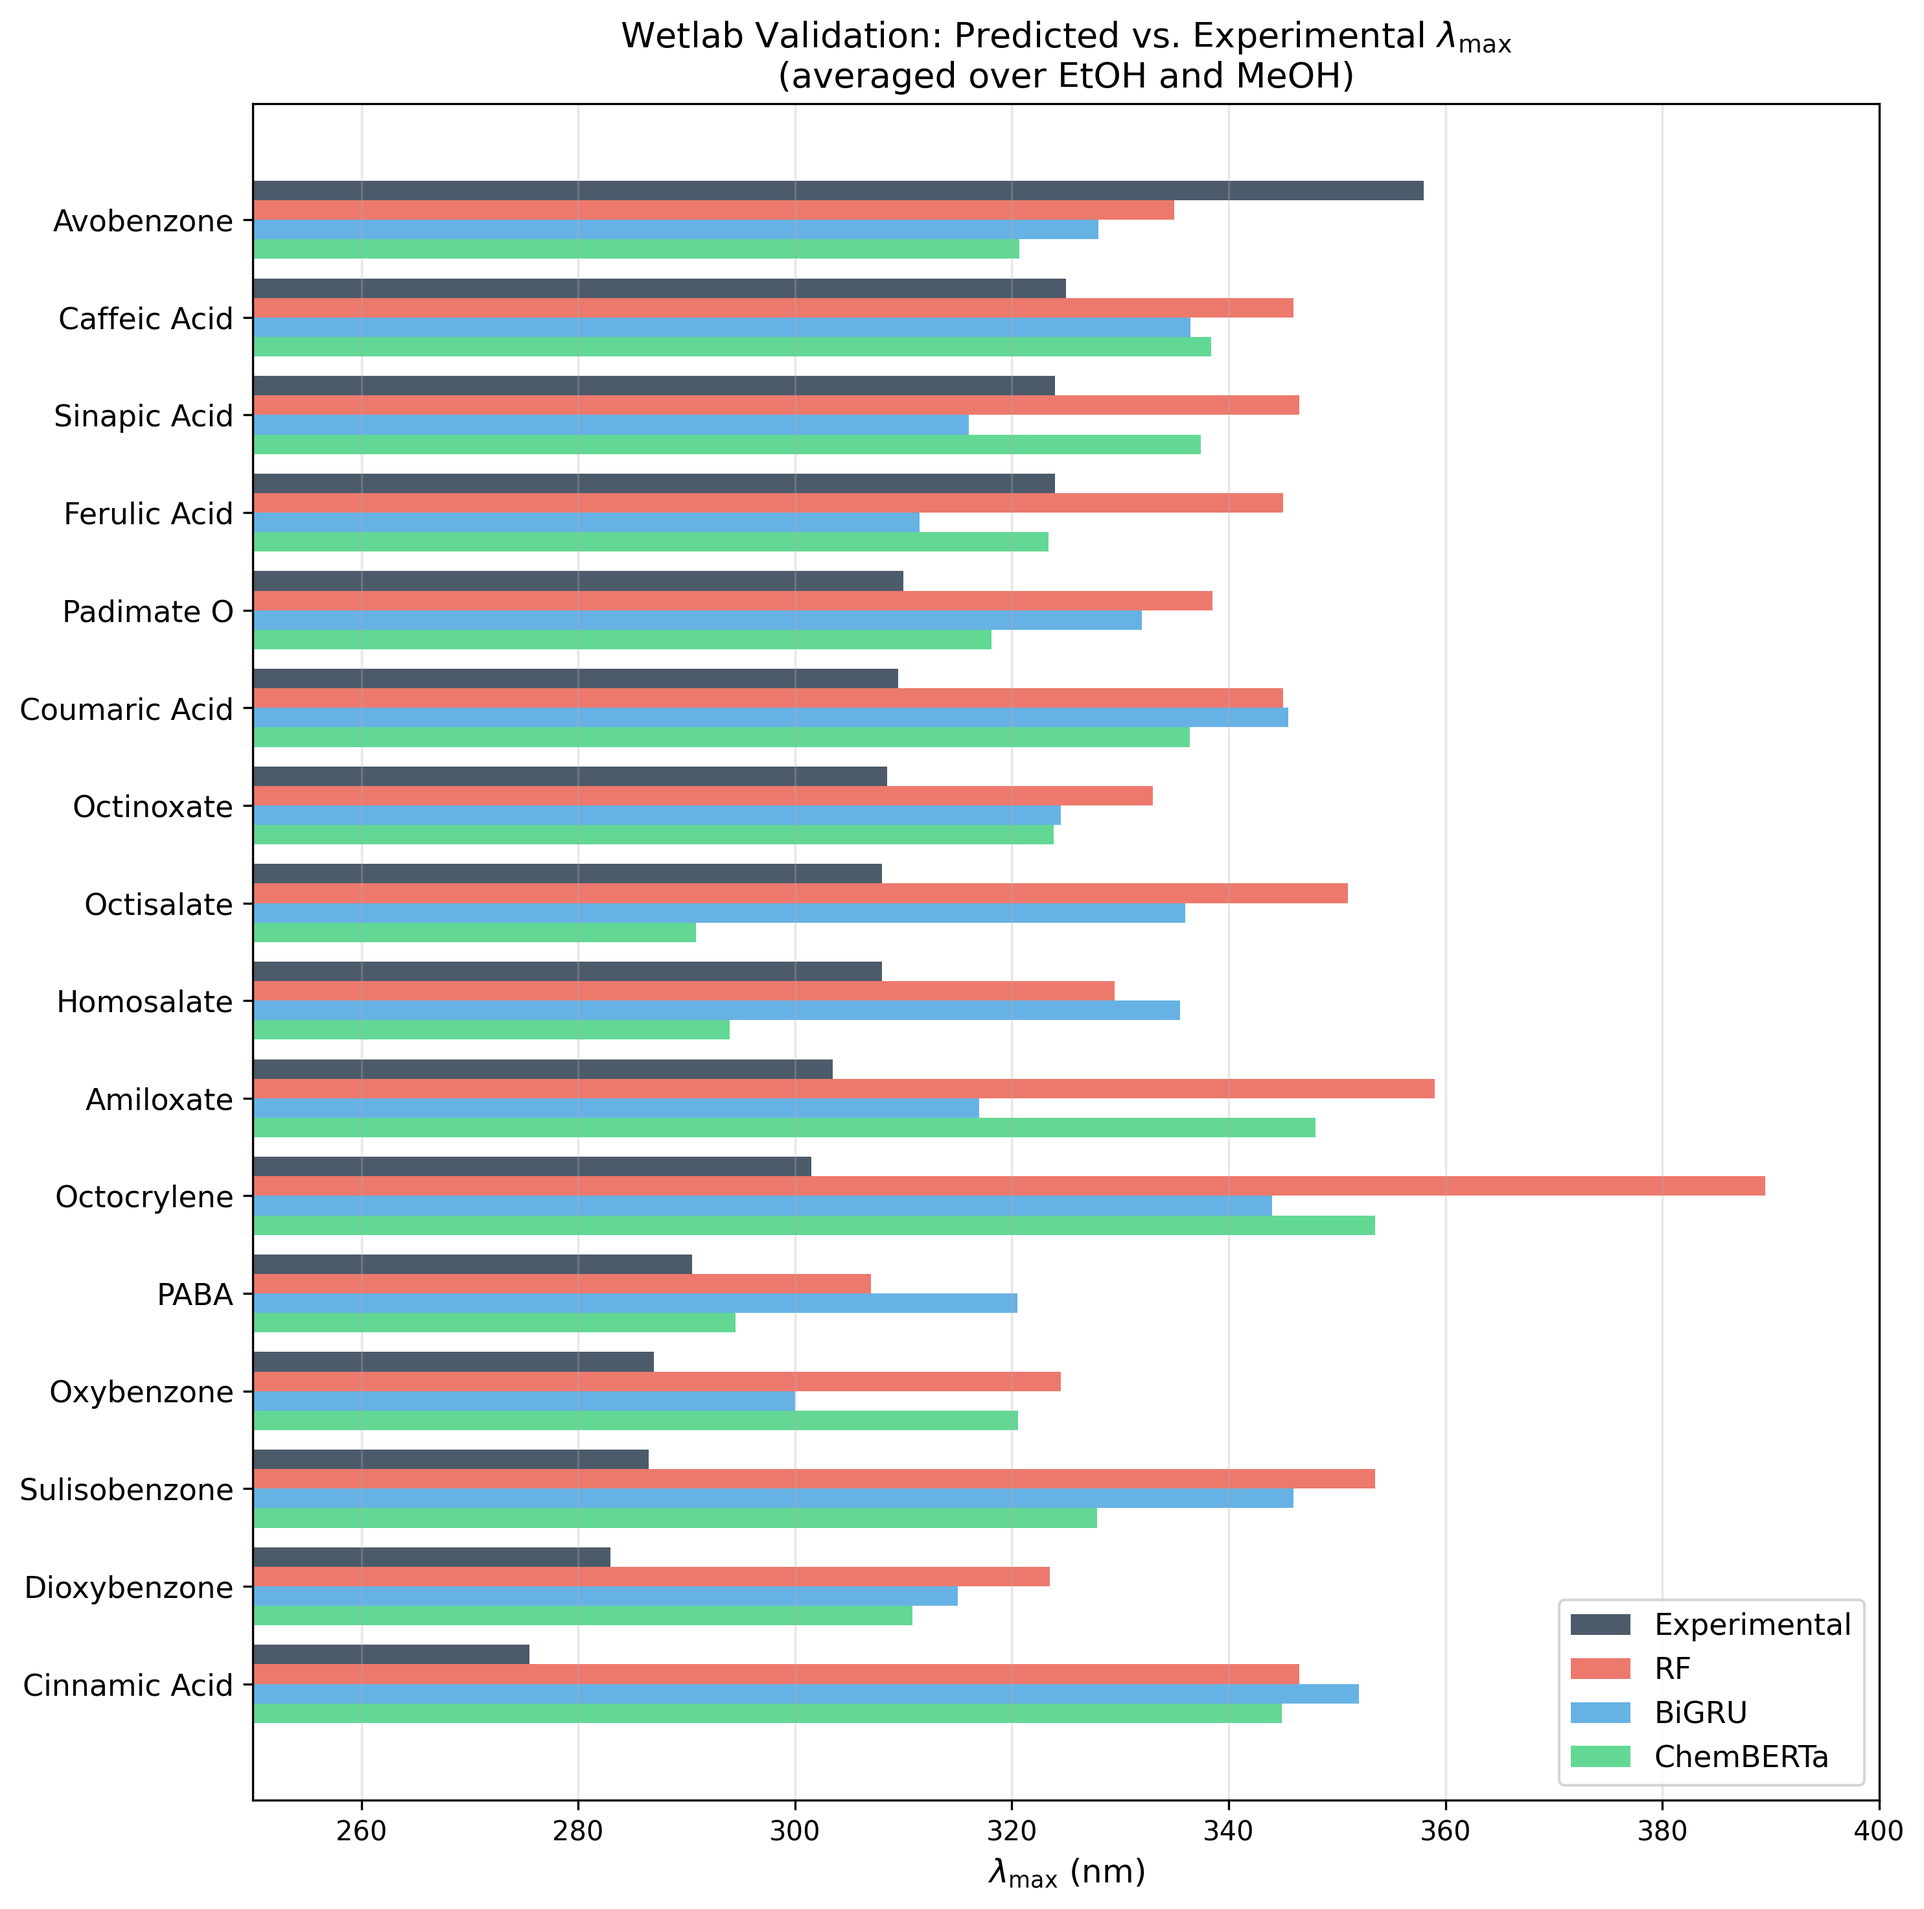
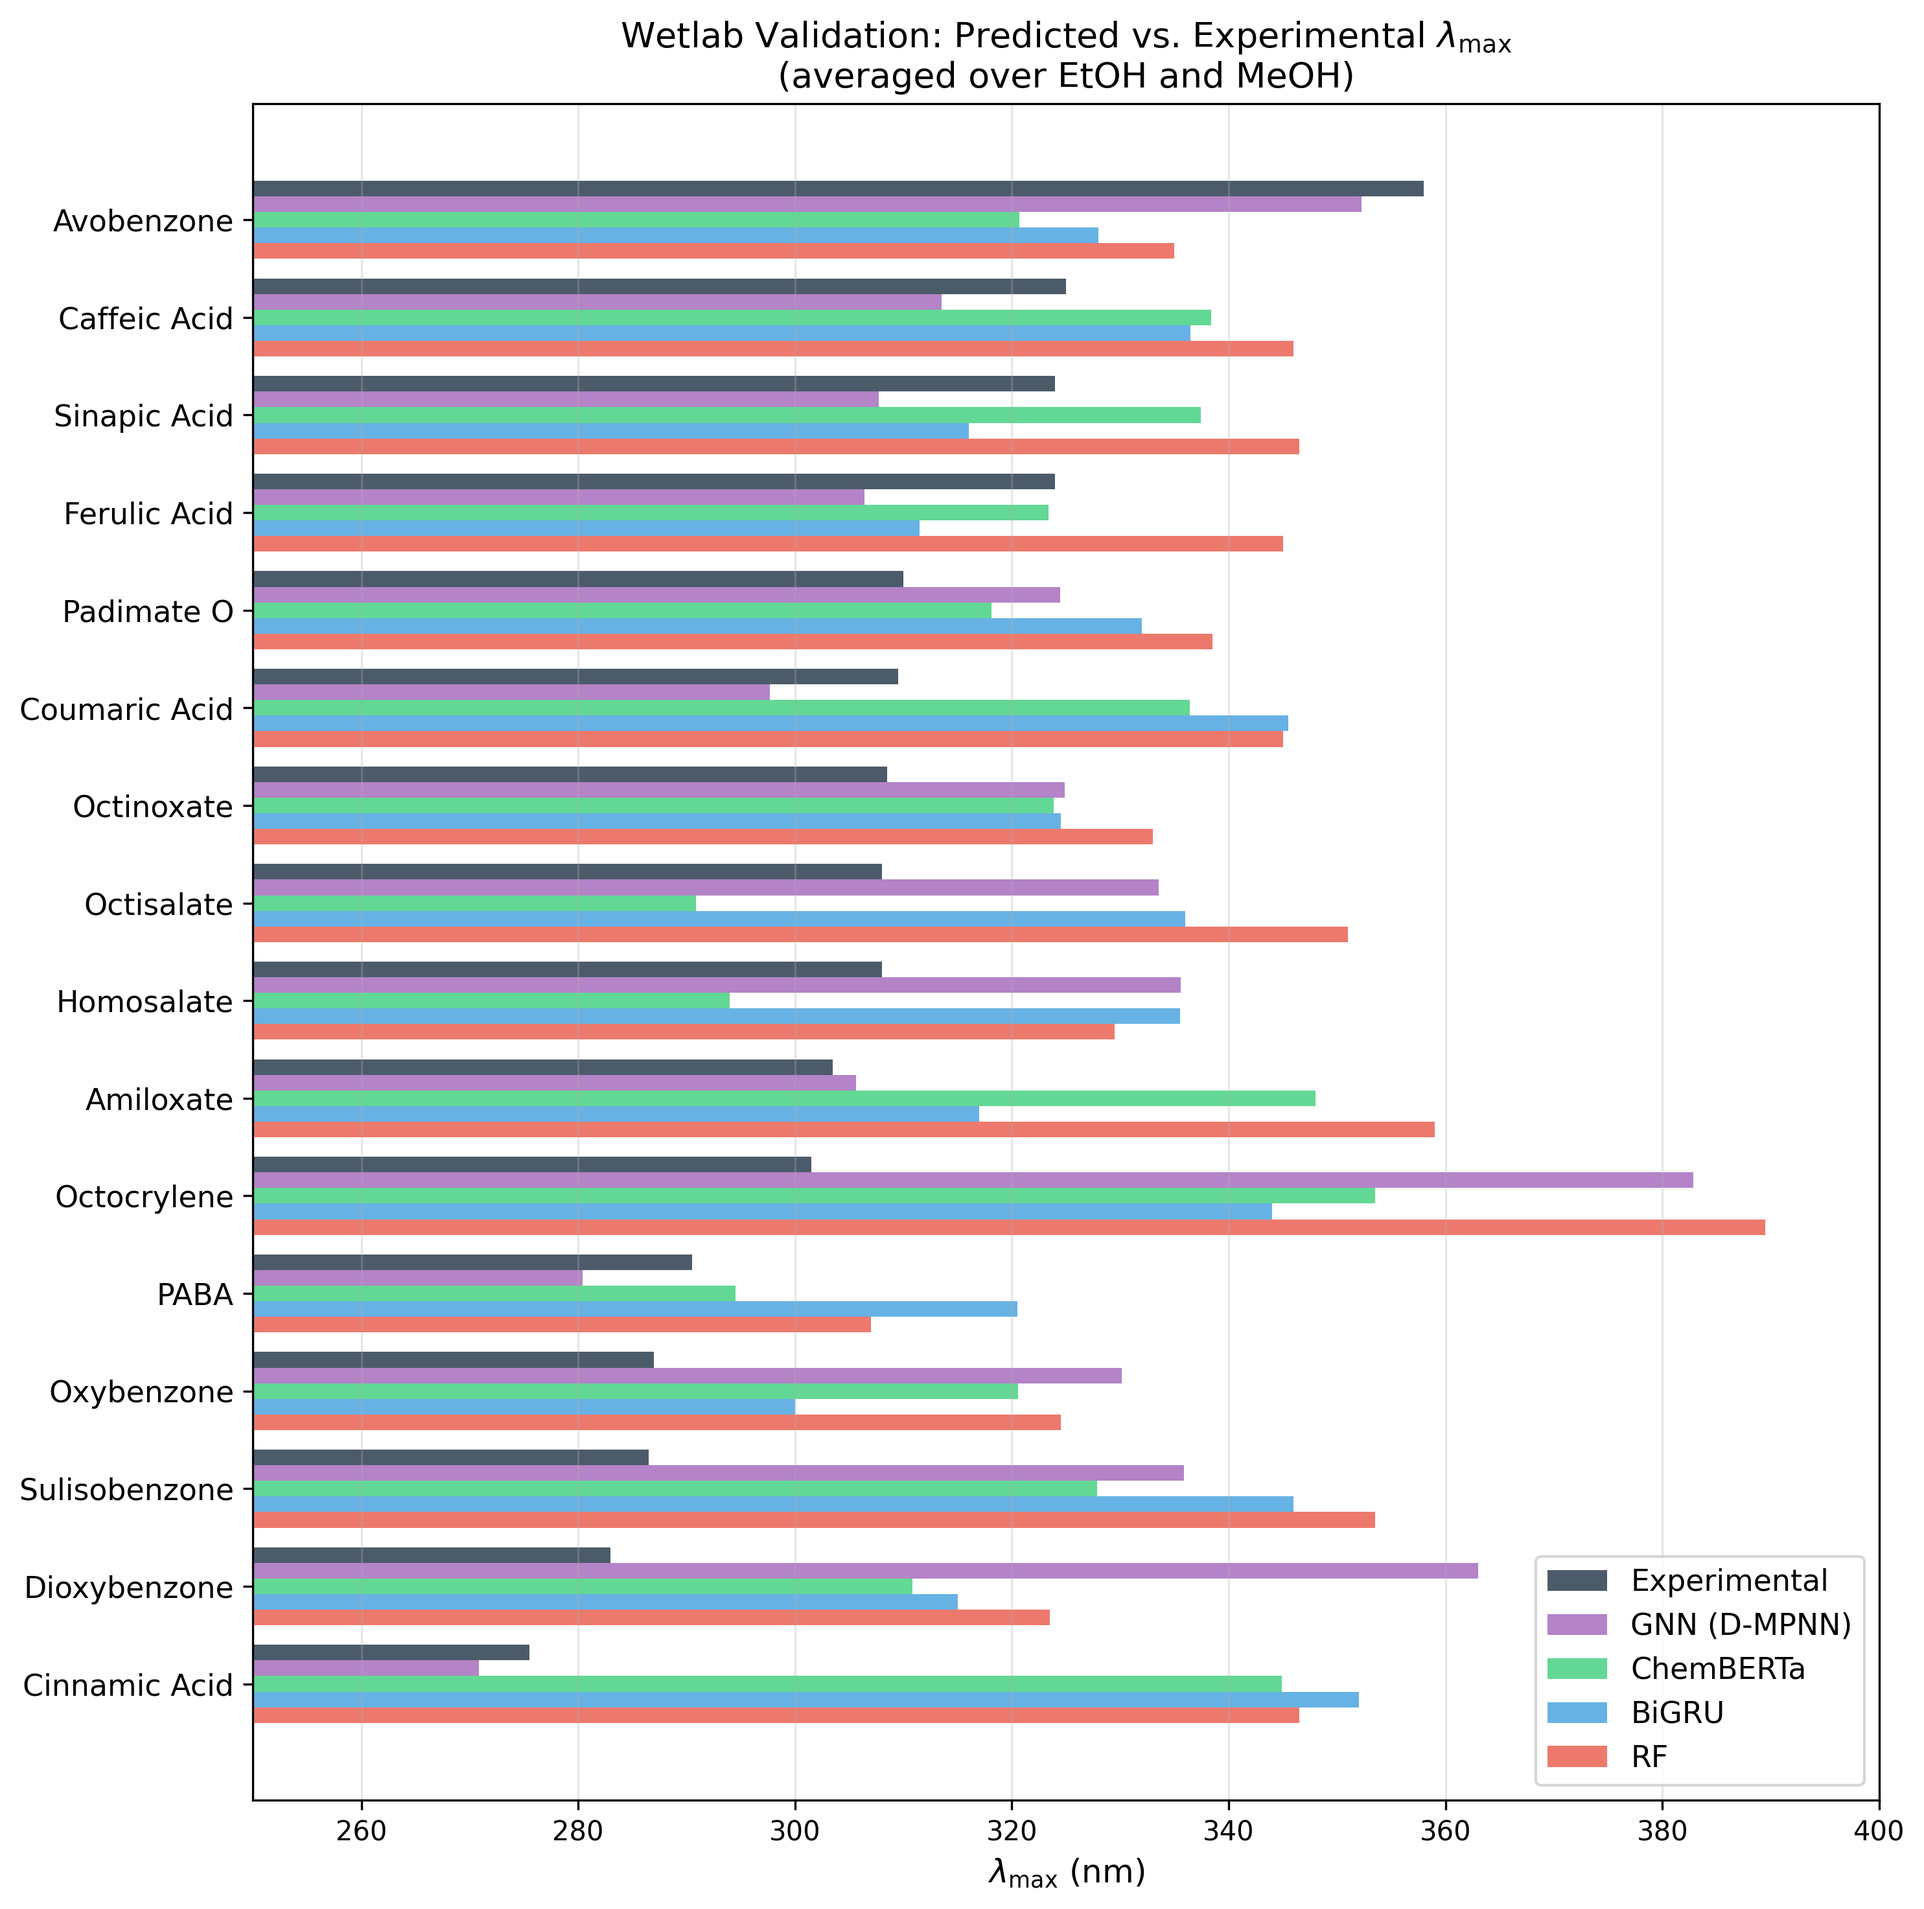
Add GNN (D-MPNN) to wetlab per-molecule bar chart (Figure 12)
- Add Chemprop predictions as 5th bar in grouped horizontal bar chart
- Update figure caption and text reference in all 3 tex files to highlight
  D-MPNN strengths (Cinnamic Acid, PABA) and weaknesses (benzophenones)
- 5 bars now: Experimental, GNN (D-MPNN), ChemBERTa, BiGRU, RF

Changed region(s): [[0.1239, 0.0937, 0.9296, 0.9056], [0.8057, 0.8119, 0.9606, 0.9369]]

diff --git a/make_figures_b3_b4.py b/make_figures_b3_b4.py
@@ -52,9 +52,14 @@ def make_wetlab_figure():
     cb_etoh = np.array([349.3, 323.1, 341.9, 348.4, 339.9, 313.7, 325.7, 294.8, 324.9, 290.8, 357.3, 324.5, 295.2, 320.1, 342.9, 329.5], dtype=float)
     cb_meoh = np.array([346.7, 318.3, 334.9, 341.4, 332.9, 307.9, 321.1, 293.1, 322.8, 290.9, 349.7, 316.7, 293.8, 316.2, 331.9, 326.2], dtype=float)
 
+    # Chemprop (D-MPNN) predictions from wetlab_predictions.csv
+    gnn_etoh = np.array([309.4, 353.9, 318.5, 276.3, 301.9, 366.9, 310.6, 336.3, 327.6, 334.3, 384.6, 333.6, 282.2, 325.2, 312.3, 337.7], dtype=float)
+    gnn_meoh = np.array([301.8, 350.6, 308.5, 265.4, 293.5, 359.1, 302.2, 334.8, 322.2, 332.8, 381.1, 326.7, 278.6, 323.7, 303.2, 334.0], dtype=float)
+
     bigru_avg = (bigru_etoh + bigru_meoh) / 2.0
     rf_avg = (rf_etoh + rf_meoh) / 2.0
     cb_avg = (cb_etoh + cb_meoh) / 2.0
+    gnn_avg = (gnn_etoh + gnn_meoh) / 2.0
 
     # Sort by experimental value for better visualization
     sort_idx = np.argsort(exp_avg)
@@ -63,16 +68,18 @@ def make_wetlab_figure():
     rf_avg = rf_avg[sort_idx]
     bigru_avg = bigru_avg[sort_idx]
     cb_avg = cb_avg[sort_idx]
+    gnn_avg = gnn_avg[sort_idx]
 
     n = len(molecules)
     y = np.arange(n)
-    height = 0.2
+    height = 0.16
 
     fig, ax = plt.subplots(figsize=(10, 10))
-    ax.barh(y + 1.5*height, exp_avg, height, label="Experimental", color="#2c3e50", alpha=0.85)
-    ax.barh(y + 0.5*height, rf_avg, height, label="RF", color="#e74c3c", alpha=0.75)
-    ax.barh(y - 0.5*height, bigru_avg, height, label="BiGRU", color="#3498db", alpha=0.75)
-    ax.barh(y - 1.5*height, cb_avg, height, label="ChemBERTa", color="#2ecc71", alpha=0.75)
+    ax.barh(y + 2.0*height, exp_avg, height, label="Experimental", color="#2c3e50", alpha=0.85)
+    ax.barh(y + 1.0*height, gnn_avg, height, label="GNN (D-MPNN)", color="#9b59b6", alpha=0.75)
+    ax.barh(y + 0.0*height, cb_avg, height, label="ChemBERTa", color="#2ecc71", alpha=0.75)
+    ax.barh(y - 1.0*height, bigru_avg, height, label="BiGRU", color="#3498db", alpha=0.75)
+    ax.barh(y - 2.0*height, rf_avg, height, label="RF", color="#e74c3c", alpha=0.75)
 
     ax.set_xlabel("$\\lambda_{\\max}$ (nm)", fontsize=12)
     ax.set_ylabel("")

diff --git a/preview_body.tex b/preview_body.tex
@@ -1010,11 +1010,11 @@ This complementarity extends beyond the local/global distinction: RF's fixed-voc
 \begin{figure}[htbp]
     \centering
     \includegraphics[width=\columnwidth]{results/wetlab_per_molecule.png}
-    \caption{Per-molecule comparison of experimental and predicted $\lambda_{\max}$ for 16 sunscreen-related compounds, averaged over EtOH and MeOH solvents. Molecules are sorted by experimental $\lambda_{\max}$. Cinnamic Acid is a notable outlier where all models overpredict by $\sim$65--75~nm, while ChemBERTa achieves the closest predictions for most molecules.}
+    \caption{Per-molecule comparison of experimental and predicted $\lambda_{\max}$ for 16 sunscreen-related compounds, averaged over EtOH and MeOH solvents. Molecules are sorted by experimental $\lambda_{\max}$. The D-MPNN closely tracks experimental values for small chromophores (Cinnamic Acid, PABA) but overpredicts benzophenones (Dioxybenzone, Octocrylene), while all models struggle with Octocrylene.}
     \label{fig:wetlab_per_molecule}
 \end{figure}
 
-Figure~\ref{fig:wetlab_per_molecule} shows per-molecule predictions alongside experimental values, illustrating the pattern more concretely: ChemBERTa tracks the experimental trend most closely for mid-range absorbers (PABA, Homosalate, Padimate~O, Ferulic Acid), while all models struggle with Cinnamic Acid and Octocrylene.
+Figure~\ref{fig:wetlab_per_molecule} shows per-molecule predictions alongside experimental values, illustrating the pattern more concretely: the D-MPNN achieves near-exact predictions for Cinnamic Acid and PABA where other models overpredict by 60--80~nm, while all models struggle with Octocrylene. ChemBERTa tracks the experimental trend most closely for mid-range absorbers (Padimate~O, Ferulic Acid).
 
 % ===== Conclusion =====
 \section{Conclusion}

diff --git a/benchmark_paper.tex b/benchmark_paper.tex
@@ -1054,11 +1054,11 @@ This complementarity extends beyond the local/global distinction: RF's fixed-voc
 \begin{figure}[htbp]
     \centering
     \includegraphics[width=\textwidth]{results/wetlab_per_molecule.png}
-    \caption{Per-molecule comparison of experimental and predicted $\lambda_{\max}$ for 16 sunscreen-related compounds, averaged over EtOH and MeOH solvents. Molecules are sorted by experimental $\lambda_{\max}$. Cinnamic Acid is a notable outlier where all models overpredict by $\sim$65--75~nm, while ChemBERTa achieves the closest predictions for most molecules.}
+    \caption{Per-molecule comparison of experimental and predicted $\lambda_{\max}$ for 16 sunscreen-related compounds, averaged over EtOH and MeOH solvents. Molecules are sorted by experimental $\lambda_{\max}$. The D-MPNN closely tracks experimental values for small chromophores (Cinnamic Acid, PABA) but overpredicts benzophenones (Dioxybenzone, Octocrylene), while all models struggle with Octocrylene.}
     \label{fig:wetlab_per_molecule}
 \end{figure}
 
-Figure~\ref{fig:wetlab_per_molecule} shows per-molecule predictions alongside experimental values, illustrating the pattern more concretely: ChemBERTa tracks the experimental trend most closely for mid-range absorbers (PABA, Homosalate, Padimate~O, Ferulic Acid), while all models struggle with Cinnamic Acid and Octocrylene.
+Figure~\ref{fig:wetlab_per_molecule} shows per-molecule predictions alongside experimental values, illustrating the pattern more concretely: the D-MPNN achieves near-exact predictions for Cinnamic Acid and PABA where other models overpredict by 60--80~nm, while all models struggle with Octocrylene. ChemBERTa tracks the experimental trend most closely for mid-range absorbers (Padimate~O, Ferulic Acid).
 
 % ===== Conclusion =====
 \section{Conclusion}

diff --git a/benchmark_paper_jcim.tex b/benchmark_paper_jcim.tex
@@ -1045,11 +1045,11 @@ This complementarity extends beyond the local/global distinction: RF's fixed-voc
 \begin{figure}[htbp]
     \centering
     \includegraphics[width=\textwidth]{results/wetlab_per_molecule.png}
-    \caption{Per-molecule comparison of experimental and predicted $\lambda_{\max}$ for 16 sunscreen-related compounds, averaged over EtOH and MeOH solvents. Molecules are sorted by experimental $\lambda_{\max}$. Cinnamic Acid is a notable outlier where all models overpredict by $\sim$65--75~nm, while ChemBERTa achieves the closest predictions for most molecules.}
+    \caption{Per-molecule comparison of experimental and predicted $\lambda_{\max}$ for 16 sunscreen-related compounds, averaged over EtOH and MeOH solvents. Molecules are sorted by experimental $\lambda_{\max}$. The D-MPNN closely tracks experimental values for small chromophores (Cinnamic Acid, PABA) but overpredicts benzophenones (Dioxybenzone, Octocrylene), while all models struggle with Octocrylene.}
     \label{fig:wetlab_per_molecule}
 \end{figure}
 
-Figure~\ref{fig:wetlab_per_molecule} shows per-molecule predictions alongside experimental values, illustrating the pattern more concretely: ChemBERTa tracks the experimental trend most closely for mid-range absorbers (PABA, Homosalate, Padimate~O, Ferulic Acid), while all models struggle with Cinnamic Acid and Octocrylene.
+Figure~\ref{fig:wetlab_per_molecule} shows per-molecule predictions alongside experimental values, illustrating the pattern more concretely: the D-MPNN achieves near-exact predictions for Cinnamic Acid and PABA where other models overpredict by 60--80~nm, while all models struggle with Octocrylene. ChemBERTa tracks the experimental trend most closely for mid-range absorbers (Padimate~O, Ferulic Acid).
 
 % ===== Conclusion =====
 \section{Conclusion}
